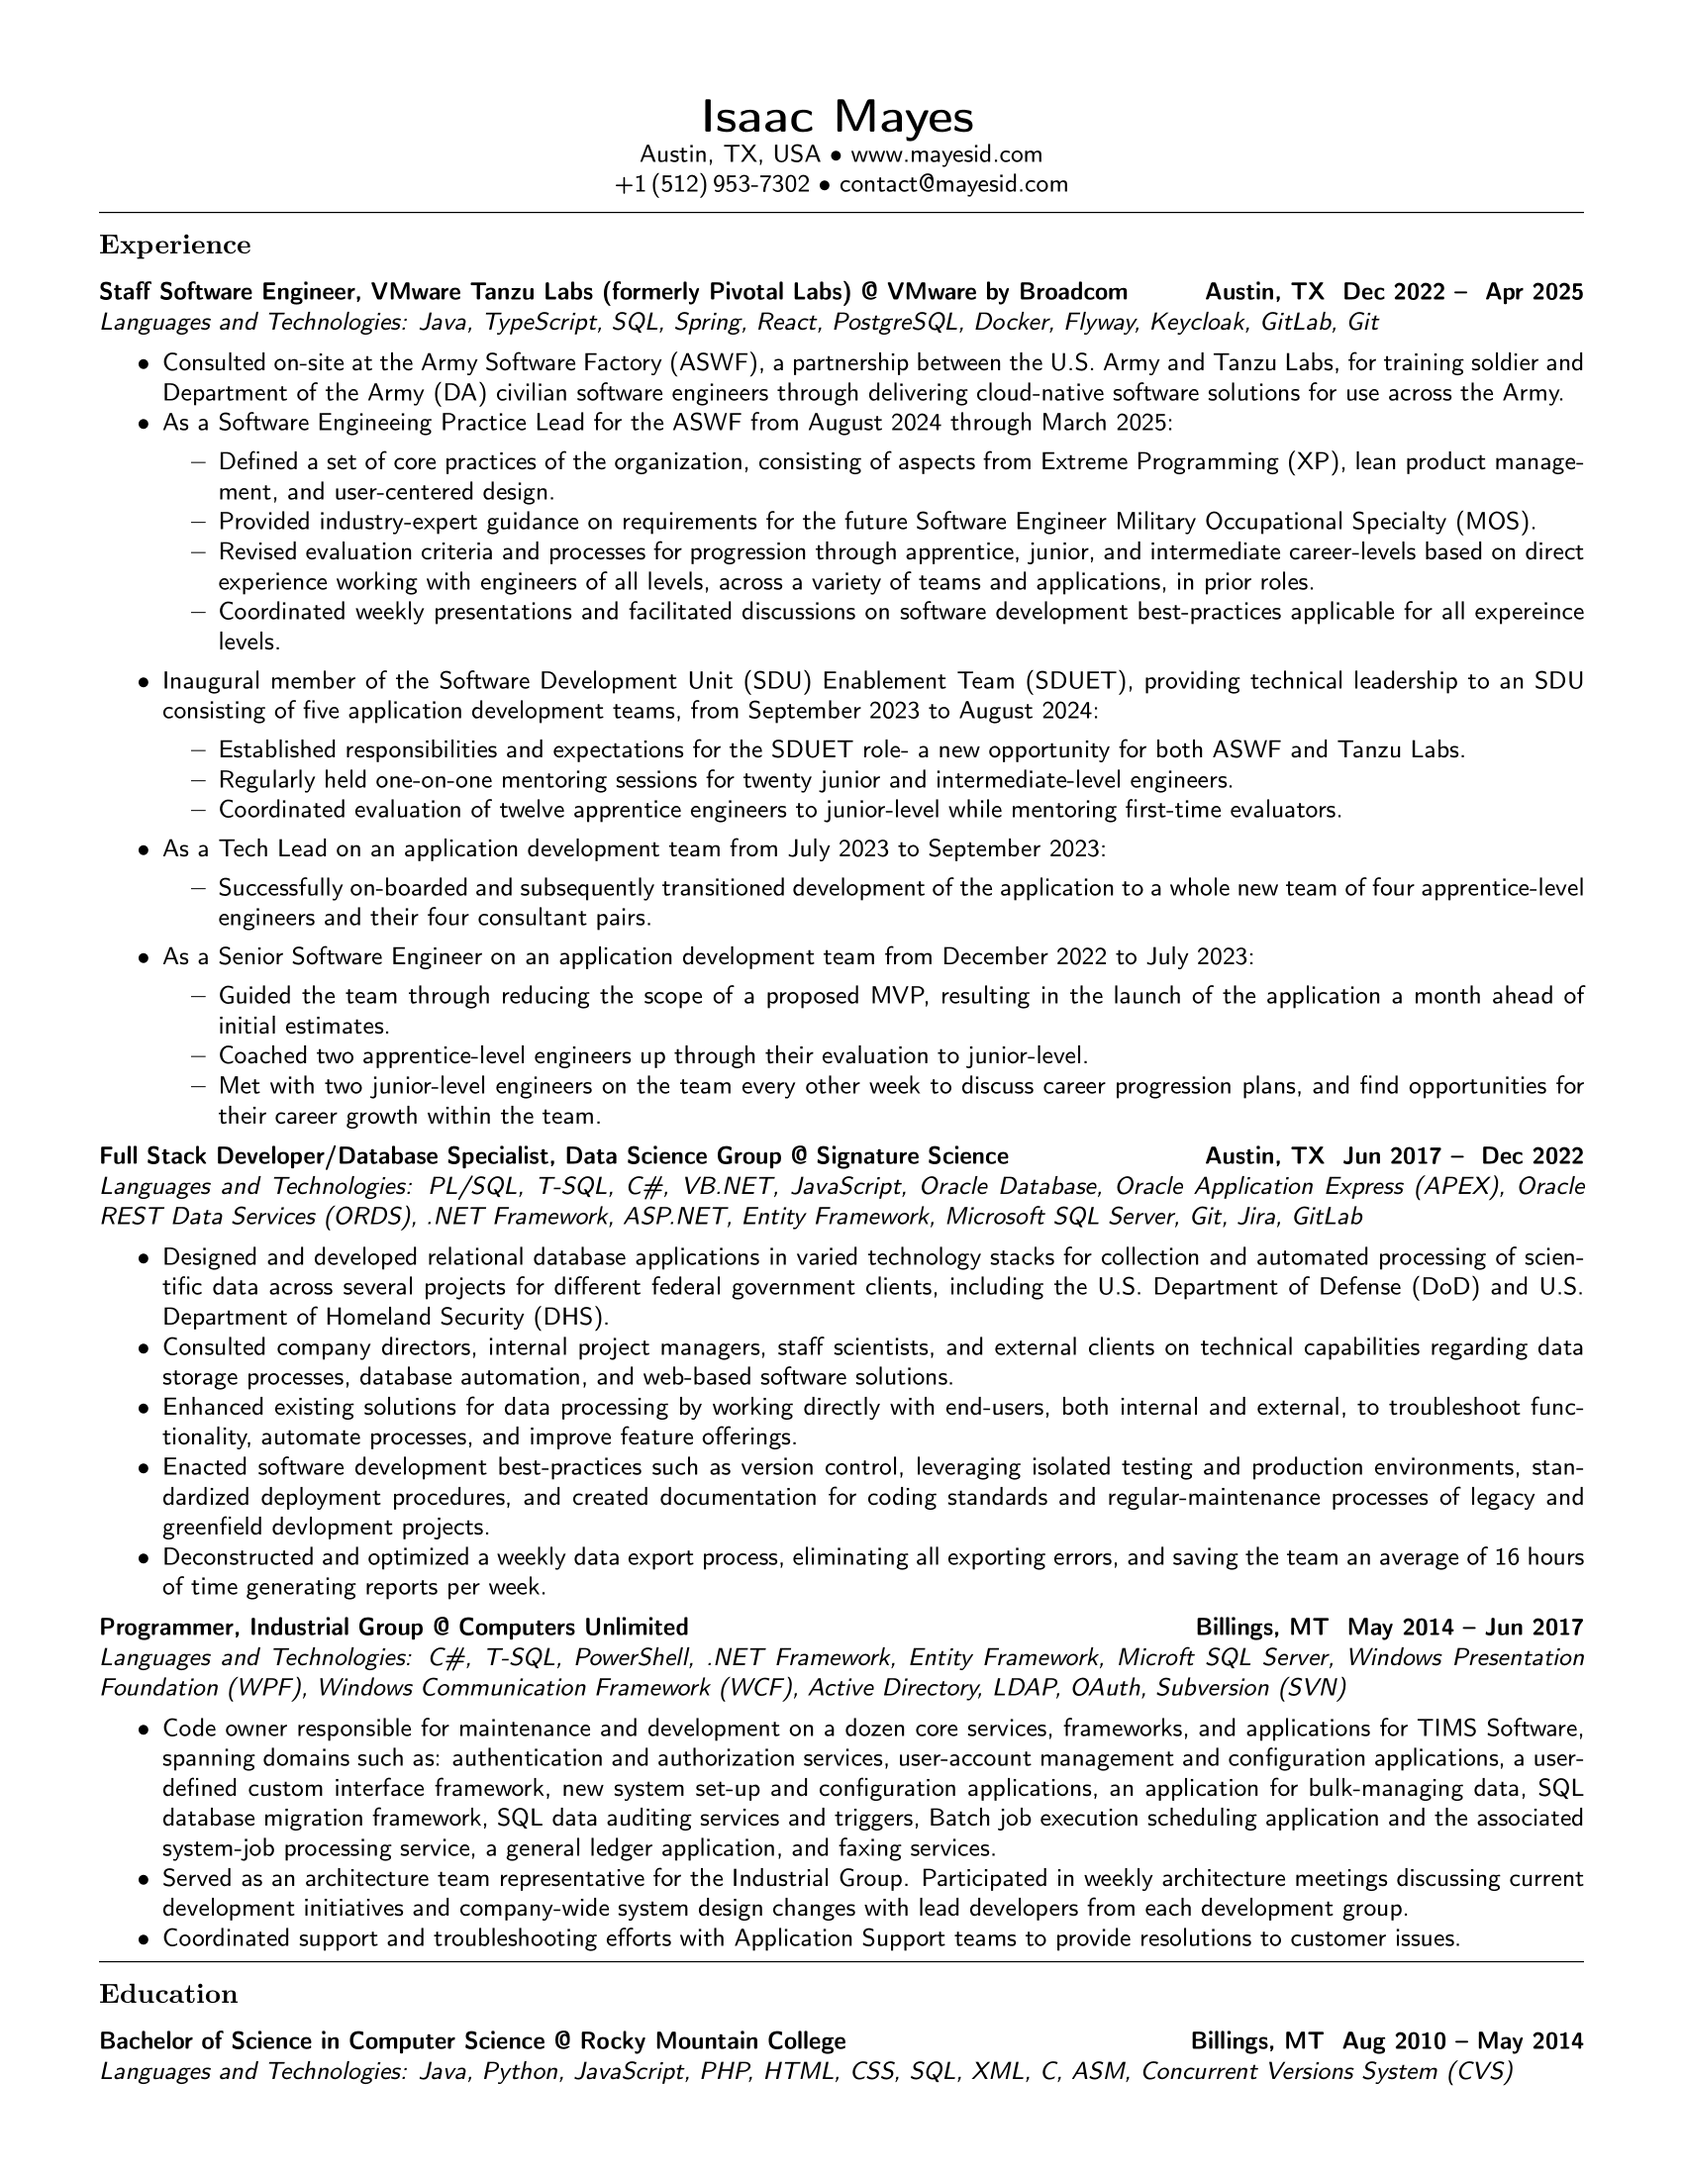
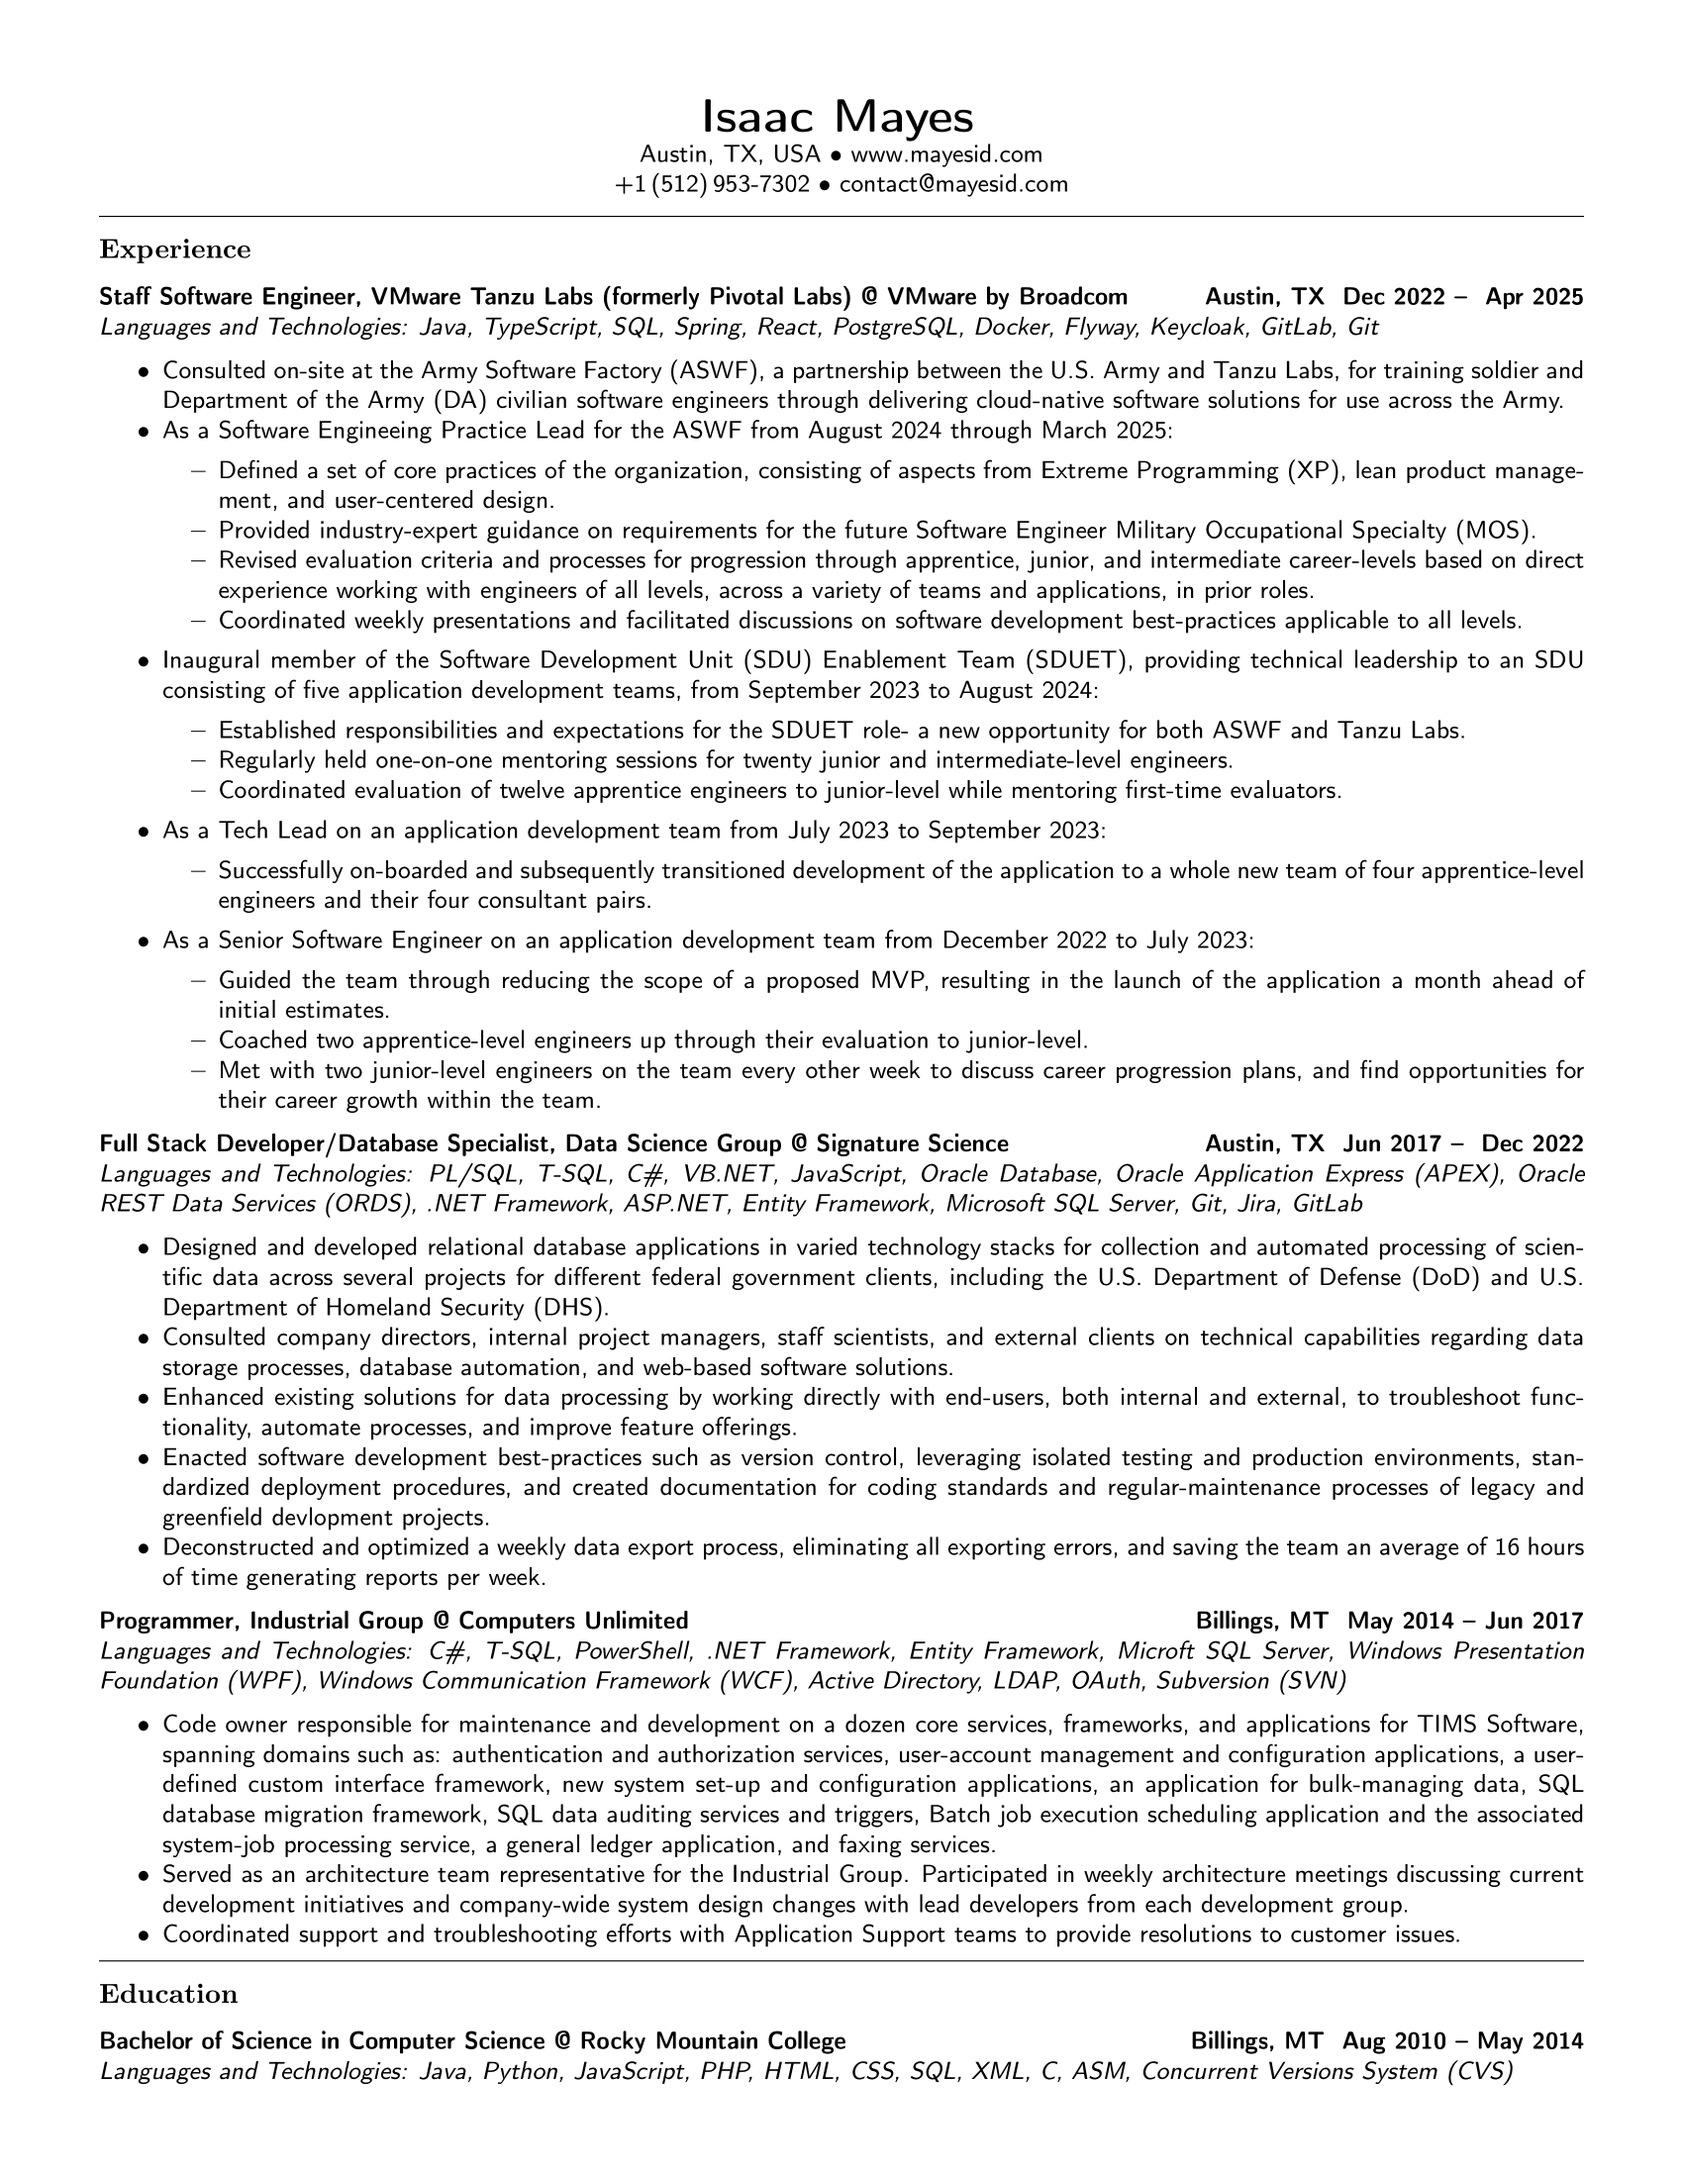
Fix typo

Changed region(s): [[0.0624, 0.0927, 0.9353, 0.8964]]

diff --git a/Resume_IsaacMayes.tex b/Resume_IsaacMayes.tex
@@ -91,7 +91,7 @@ breaklinks
 			\item Defined a set of core practices of the organization, consisting of aspects from Extreme Programming (XP), lean product management, and user-centered design.
 			\item Provided industry-expert guidance on requirements for the future Software Engineer Military Occupational Specialty (MOS).
 			\item Revised evaluation criteria and processes for progression through apprentice, junior, and intermediate career-levels based on direct experience working with engineers of all levels, across a variety of teams and applications, in prior roles.
-			\item Coordinated weekly presentations and facilitated discussions on software development best-practices applicable for all expereince levels.
+			\item Coordinated weekly presentations and facilitated discussions on software development best-practices applicable to all levels.
 		\end{itemize*}
 	\item Inaugural member of the Software Development Unit (SDU) Enablement Team (SDUET), providing technical leadership to an SDU consisting of five application development teams, from September 2023 to August 2024:
 		\begin{itemize*}
